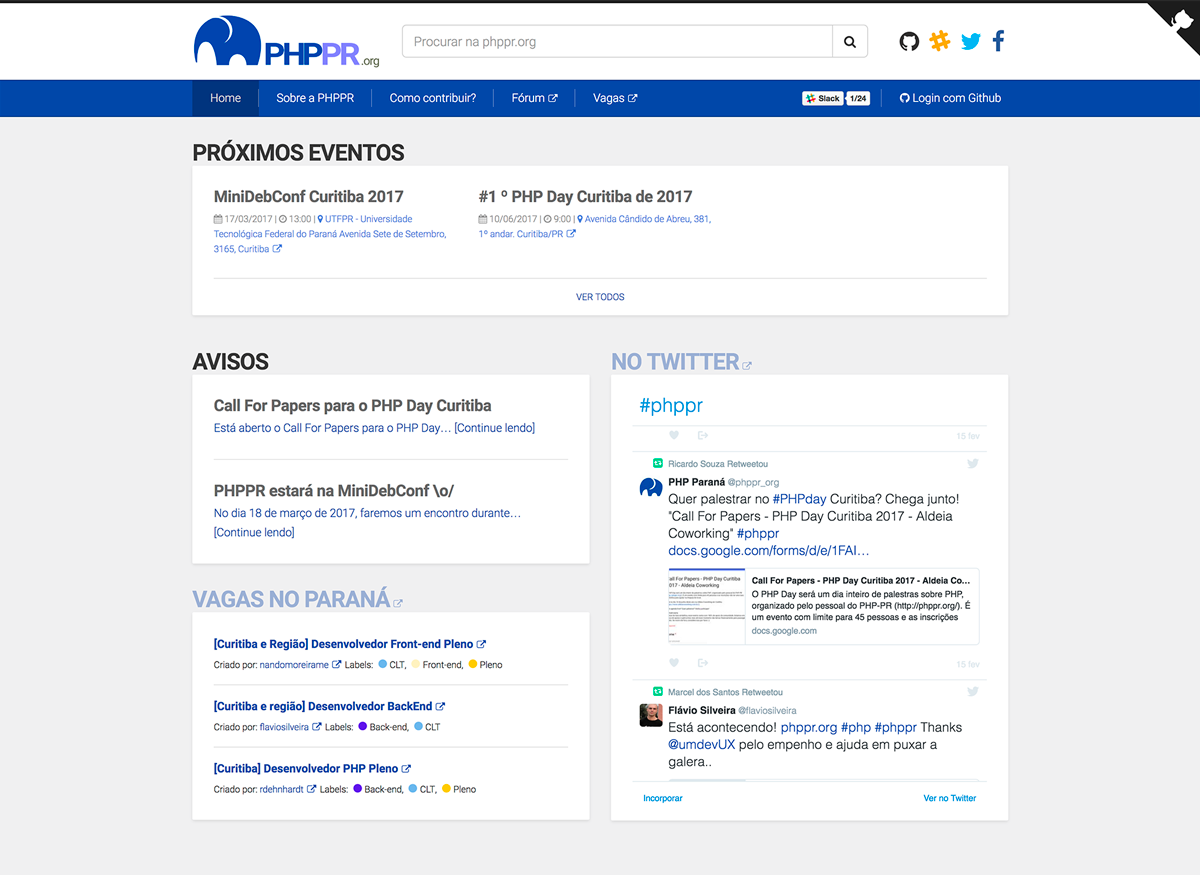
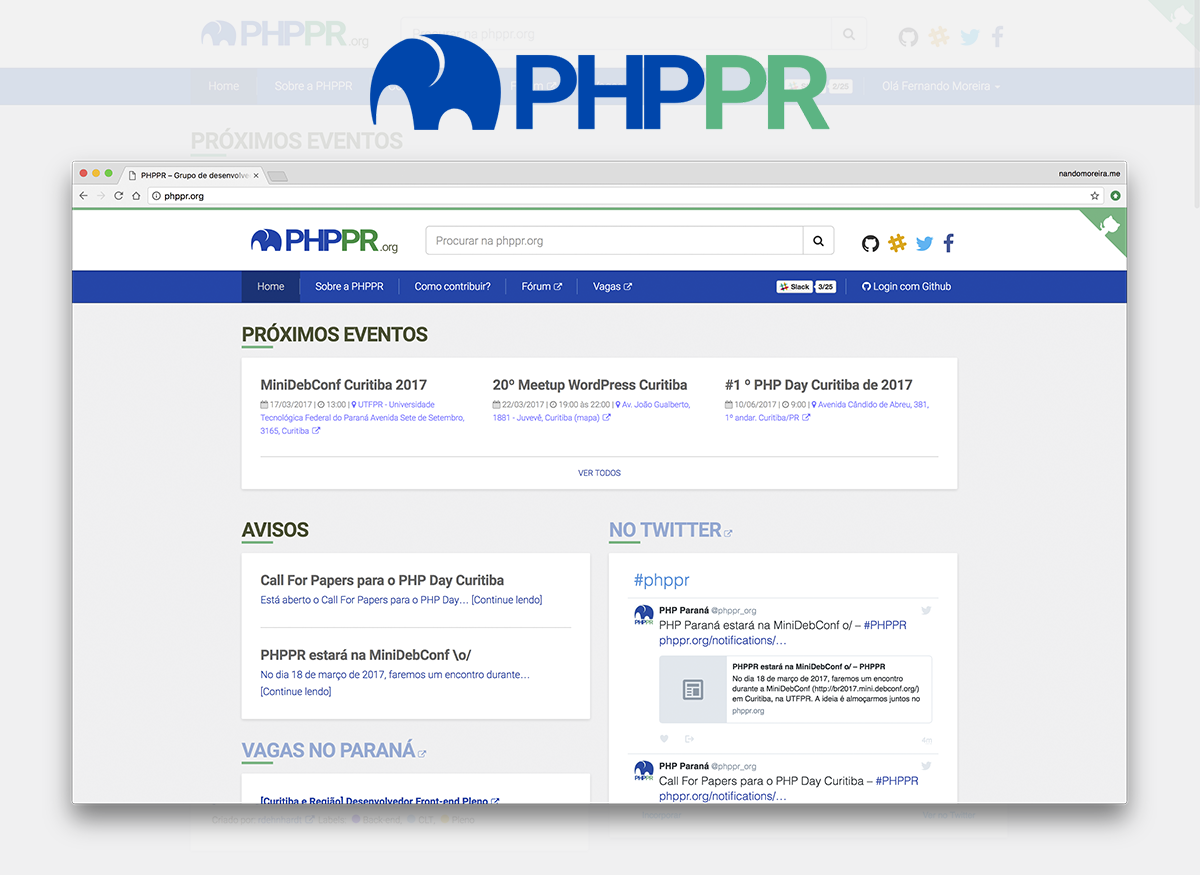
Add alignleft and alignright WordPress classes and update screenshot

Changed region(s): [[0.0, 0.0, 1.0, 0.9566], [0.185, 0.5554, 0.4317, 0.6171]]

diff --git a/src/assets/sass/base/_media.sass b/src/assets/sass/base/_media.sass
@@ -5,3 +5,16 @@ img,
 picture
   margin: 0
   max-width: 100%
+
+img
+  &.alignleft
+    float: left
+    margin-right: 10px
+
+  &.alignright
+    float: right
+    margin-left: 10px
+
+  &.alignleft,
+  &.alignright
+    margin-bottom: 10px
